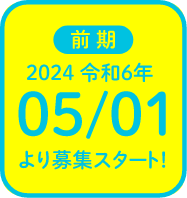
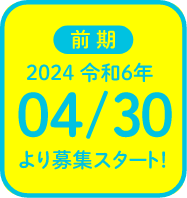
programming→programmerに変更

diff --git a/src/index.html b/src/index.html
@@ -140,7 +140,7 @@
                     <source srcset="./assets/images/data_pc@2x.webp" type="image/webp" media="(min-width: 768px)" />
                     <source srcset="./assets/images/data_pc@2x.png" media="(min-width: 768px)" />
                     <source srcset="./assets/images/data_sp@2x.webp" type="image/webp" />
-                    <img src="./assets/images/data_sp@2x.png" alt="前期2024令和6年05/01より募集スタート！" width="172" height="72" />
+                    <img src="./assets/images/data_sp@2x.png" alt="前期2024令和6年04/30より募集スタート！" width="172" height="72" />
                   </picture>
                 </div>
               </div>
@@ -152,13 +152,13 @@
                   <div class="fv__target-img">
                     <img src="./assets/images/icon-money.svg" alt="" width="60" height="43" />
                   </div>
-                  <p class="fv__target-text">子供と自分の<wbr>将来のために、<br>安定した収入を得たい</p>
+                  <p class="fv__target-text">子どもと自分の<wbr>将来のために、<br>安定した収入を得たい</p>
                 </li>
                 <li class="fv__target-item">
                   <div class="fv__target-img">
                     <img src="./assets/images/icon-clock.svg" alt="" width="38" height="38" />
                   </div>
-                  <p class="fv__target-text">子供との時間を<wbr>確保するため<br>時短勤務で働きたい</p>
+                  <p class="fv__target-text">子どもとの時間を<wbr>確保するため<br>時短勤務で働きたい</p>
                 </li>
                 <li class="fv__target-item">
                   <div class="fv__target-img">
@@ -335,6 +335,7 @@
               <li class="course__item">
                 <a href="./engineer.html" class="course-item">
                   <p class="course-item__label">
+                    前期
                     <span class="course-item__label-num">65</span>
                     <span class="course-item__label-color">名</span>
                     予定
@@ -348,7 +349,7 @@
                       <img src="./assets/images/course01.jpg" alt="PCを使う女性の様子" width="202" height="112" />
                     </picture>
                   </div>
-                  <p class="course-item__job">インフラエンジニア／社内SE／クラウドエンジニア／<wbr>テクニカルサポート・運営保守
+                  <p class="course-item__job">インフラエンジニア／社内SE／クラウドエンジニア／<wbr>テクニカルサポート／運営保守
                   </p>
                   <p class="course-item__read">
                     ネットワーク社会に欠かせない<span>インフラ</span><span>エンジニア</span>としての<span>知識を中心に学びます。</span><span>クラウドやサーバーなどインターネットの</span><br>仕組みに興味のある方にもおススメです。
@@ -366,14 +367,15 @@
                 </a>
               </li>
               <li class="course__item">
-                <a href="./programming.html" class="course-item">
+                <a href="./programmer.html" class="course-item">
                   <p class="course-item__label">
+                    前期
                     <span class="course-item__label-num">65</span>
                     <span class="course-item__label-color">名</span>
                     予定
                   </p>
                   <h4 class="course-item__head">
-                    ITプログラミング科
+                    ITプログラマー科
                   </h4>
                   <div class="course-item__img">
                     <picture>
@@ -381,10 +383,10 @@
                       <img src="./assets/images/course02.jpg" alt="PCを使う女性の様子" width="202" height="112" />
                     </picture>
                   </div>
-                  <p class="course-item__job">システムエンジニア／プログラマー／<wbr>デバッガ―／テスター／<span>ソフトウエア</span>・ゲーム開発エンジニア
+                  <p class="course-item__job">プログラマー／<wbr>デバッガ―／テスター／<span>ソフトウエア</span>・ゲーム開発エンジニア
                   </p>
                   <p class="course-item__read">
-                    スマートフォンやPCで<br>身近なプログラミングを学ぶコースです。<br>PCが好きな方や事務の経験を活かして<br>スキルアップしたい方におススメです。
+                    スマートフォンやPCで<br>身近なプログラミングを学ぶ講座です。<br>PCが好きな方や事務の経験を活かして<br>スキルアップしたい方におススメです。
                   </p>
                   <div class="course-item__bottom">
                     <ul class="course-item__list">
@@ -401,6 +403,7 @@
               <li class="course__item">
                 <a href="./designer.html" class="course-item">
                   <p class="course-item__label">
+                    前期
                     <span class="course-item__label-num">20</span>
                     <span class="course-item__label-color">名</span>
                     予定
@@ -417,7 +420,7 @@
                   <p class="course-item__job">Webデザイナー／Webオペレーター／<span>Webマーケター／</span><span>UX・UIデザイナー</span>
                   </p>
                   <p class="course-item__read">
-                    Webサイトの制作を基礎から<span>学ぶコースです。</span><wbr>ブログの制作やデザインに<span>興味のある方に</span>おススメです。
+                    Webサイトの制作を基礎から<span>学ぶ講座です。</span><wbr>ブログの制作やデザインに<span>興味のある方に</span>おススメです。
                   </p>
                   <div class="course-item__bottom">
                     <ul class="course-item__list">
@@ -441,6 +444,7 @@
               <li class="course__item">
                 <a href="./medical-nursing.html" class="course-item--rose">
                   <p class="course-item__label">
+                    前期
                     <span class="course-item__label-num">25</span>
                     <span class="course-item__label-color">名</span>
                     予定
@@ -454,10 +458,10 @@
                       <img src="./assets/images/course04.jpg" alt="薬局で働いている様子" width="365" height="202" />
                     </picture>
                   </div>
-                  <p class="course-item__job">薬局等での医薬品販売／介護事務管理士／<span>受付・事務スタッフ医療</span>／介護業界での情報<wbr>セキュリティアナリスト
+                  <p class="course-item__job">薬局等での医薬品販売／<span>介護事務管理士／</span><span>受付スタッフ／事務スタッフ</span>
                   </p>
                   <p class="course-item__read">
-                    身近な医療機関で働きたい方に<span>おススメの講座です。</span><br>ドラッグストアや薬局などで医薬品の販売に<span>必要な資格の取得を目指すコースです。</span>
+                    身近な医療機関で働きたい方に<span>おススメの講座です。</span><br>ドラッグストアや薬局などで医薬品の販売に<span>必要な資格の取得を目指します。</span>
                   </p>
                   <div class="course-item__bottom">
                     <ul class="course-item__list">
@@ -474,6 +478,7 @@
               <li class="course__item">
                 <a href="./accounting.html" class="course-item--rose">
                   <p class="course-item__label">
+                    前期
                     <span class="course-item__label-num">20</span>
                     <span class="course-item__label-color">名</span>
                     予定
@@ -487,10 +492,10 @@
                       <img src="./assets/images/course05.jpg" alt="PCを使う女性の様子" width="365" height="202" />
                     </picture>
                   </div>
-                  <p class="course-item__job">財務／経理／経理サポート／<span>会計事務所での事務スタッフ</span>
+                  <p class="course-item__job">財務／経理／経理サポート／<span>会計事務所等での事務スタッフ</span>
                   </p>
                   <p class="course-item__read">
-                    日商簿記3級、2級の資格取得に向けた<span>学習対策講座です。</span>経理職を目指す方、<span>事務職を</span>目指す方に<span>おススメです。</span>
+                    日商簿記3級、2級の資格取得に向けた<span>対策講座です。</span>経理職を目指す方、<span>事務職を</span>目指す方に<span>おススメです。</span>
                   </p>
                   <div class="course-item__bottom">
                     <ul class="course-item__list">
@@ -505,6 +510,7 @@
               <li class="course__item">
                 <a href="./office-specialist.html" class="course-item--rose">
                   <p class="course-item__label">
+                    前期
                     <span class="course-item__label-num">35</span>
                     <span class="course-item__label-color">名</span>
                     予定
@@ -521,7 +527,7 @@
                   <p class="course-item__job">一般事務／営業事務／秘書／コールセンター
                   </p>
                   <p class="course-item__read">
-                    事務職に欠かせないWord・Excelの<span>基礎から応用編までを学び</span><span>MOSの取得を目指すコースです。</span>
+                    事務職に欠かせないWord・Excelの<span>基礎から応用編までを学び</span><span>MOSの取得を目指します。</span>
                   </p>
                   <div class="course-item__bottom">
                     <ul class="course-item__list">

diff --git a/src/programmer.html b/src/programmer.html
@@ -7,13 +7,13 @@
   <meta name="format-detection" content="telephone=no" />
   <meta name="robots" content="noindex" />
   <!-- meta情報 -->
-  <title>コース紹介｜ITプログラミング科</title>
+  <title>コース紹介｜ITプログラマー科</title>
   <meta name="description" content="デジタルコース｜様々なお悩みを抱えるひとり親のみなさん向けに、eラーニング等による資格やスキルの取得支援と就職支援を行う事業です。" />
   <meta name="keywords" content="" />
   <!-- ogp -->
-  <meta property="og:title" content="コース紹介｜ITプログラミング科" />
+  <meta property="og:title" content="コース紹介｜ITプログラマー科" />
   <meta property="og:type" content="article" />
-  <meta property="og:url" content="https://parent-career.jp/programming" />
+  <meta property="og:url" content="https://parent-career.jp/programmer" />
   <meta property="og:image" content="https://parent-career.jp/assets/images/course02.jpg" />
   <meta property="og:site_name" content="ひとり親向けオンライン訓練・就活支援事業" />
   <meta property="og:description" content="デジタルコース｜様々なお悩みを抱えるひとり親のみなさん向けに、eラーニング等による資格やスキルの取得支援と就職支援を行う事業です。" />
@@ -130,7 +130,7 @@
           <div class="sub-fv__content">
             <hgroup class="sub-fv__head">
               <p class="sub-fv__head-course">デジタルコース</p>
-              <h1 class="sub-fv__head-title">ITプログラミング科</h1>
+              <h1 class="sub-fv__head-title">ITプログラマー科</h1>
             </hgroup>
             <ul class="sub-fv__jobs">
               <li class="sub-fv__job">
@@ -177,7 +177,7 @@
               <p class="section-head__sub">Contents</p>
             </hgroup>
           </div>
-          <p class="detail__text">ITプログラミング科の・目指せる職業・取得可能資格・学習内容をご紹介します。</p>
+          <p class="detail__text">ITプログラマー科の・目指せる職業・取得可能資格・学習内容をご紹介します。</p>
           <section class="detail__content">
             <div class="detail__content-head">
               <h3 class="head--rose">目指せる職業</h3>
@@ -451,7 +451,7 @@
               <a href="./engineer.html" class="button-other"><span>ITエンジニア科</span></a>
             </li>
             <li class="other__item">
-              <a href="./programming.html" class="button-other is-current"><span>ITプログラミング科</span></a>
+              <a href="./programmer.html" class="button-other is-current"><span>ITプログラマー科</span></a>
             </li>
             <li class="other__item">
               <a href="./designer.html" class="button-other"><span>Webデザイナー科</span></a>

diff --git a/src/designer.html b/src/designer.html
@@ -450,7 +450,7 @@
               <a href="./engineer.html" class="button-other"><span>ITエンジニア科</span></a>
             </li>
             <li class="other__item">
-              <a href="./programming.html" class="button-other"><span>ITプログラミング科</span></a>
+              <a href="./programmer.html" class="button-other"><span>ITプログラマー科</span></a>
             </li>
             <li class="other__item">
               <a href="./designer.html" class="button-other is-current"><span>Webデザイナー科</span></a>

diff --git a/src/engineer.html b/src/engineer.html
@@ -477,7 +477,7 @@
               <a href="./engineer.html" class="button-other is-current"><span>ITエンジニア科</span></a>
             </li>
             <li class="other__item">
-              <a href="./programming.html" class="button-other"><span>ITプログラミング科</span></a>
+              <a href="./programmer.html" class="button-other"><span>ITプログラマー科</span></a>
             </li>
             <li class="other__item">
               <a href="./designer.html" class="button-other"><span>Webデザイナー科</span></a>

diff --git a/src/accounting.html b/src/accounting.html
@@ -469,7 +469,7 @@
               <a href="./engineer.html" class="button-other"><span>ITエンジニア科</span></a>
             </li>
             <li class="other__item">
-              <a href="./programming.html" class="button-other"><span>ITプログラミング科</span></a>
+              <a href="./programmer.html" class="button-other"><span>ITプログラマー科</span></a>
             </li>
             <li class="other__item">
               <a href="./designer.html" class="button-other"><span>Webデザイナー科</span></a>

diff --git a/src/medical-nursing.html b/src/medical-nursing.html
@@ -467,7 +467,7 @@
               <a href="./engineer.html" class="button-other"><span>ITエンジニア科</span></a>
             </li>
             <li class="other__item">
-              <a href="./programming.html" class="button-other"><span>ITプログラミング科</span></a>
+              <a href="./programmer.html" class="button-other"><span>ITプログラマー科</span></a>
             </li>
             <li class="other__item">
               <a href="./designer.html" class="button-other"><span>Webデザイナー科</span></a>

diff --git a/src/office-specialist.html b/src/office-specialist.html
@@ -499,7 +499,7 @@
               <a href="./engineer.html" class="button-other"><span>ITエンジニア科</span></a>
             </li>
             <li class="other__item">
-              <a href="./programming.html" class="button-other"><span>ITプログラミング科</span></a>
+              <a href="./programmer.html" class="button-other"><span>ITプログラマー科</span></a>
             </li>
             <li class="other__item">
               <a href="./designer.html" class="button-other"><span>Webデザイナー科</span></a>

diff --git a/src/sass/module/_course-item.scss b/src/sass/module/_course-item.scss
@@ -50,6 +50,7 @@
 
 .course-item__label-num {
   display: inline-block;
+  margin-left: rem(6);
   font-size: rem(21);
   color: $blue;
   position: relative;

diff --git a/src/sass/module/_compnay-fv.scss b/src/sass/module/_compnay-fv.scss
@@ -91,6 +91,7 @@
   font-family: $second-font;
   color: $blue;
   line-height: 1;
+  text-align: center;
 }
 
 .company-fv__title-line {
